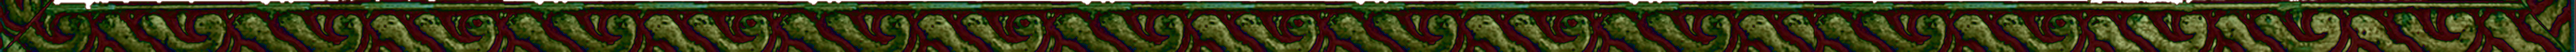
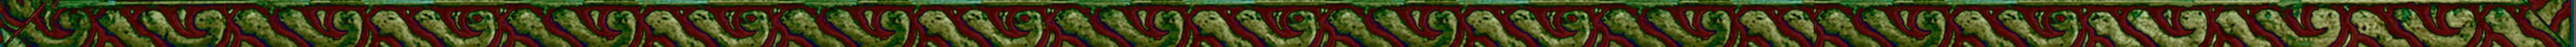
adjusting visuals

diff --git a/assets/style/style.css b/assets/style/style.css
@@ -161,3 +161,20 @@ section {
         font-size: 1.5rem;
     }
 }
+
+.border-top{
+    height: 2vh;
+    width: 100%;
+    background-image: url(../img/border-top.jpg);
+    background-position: center;
+    background-size: cover;
+    margin-block-end: -2px;
+}
+
+.border-bottom{
+    height: 2vh;
+    width: 100%;
+    background-image: url(../img/border-bottom.jpg);
+    background-position: center;
+    background-size: cover;
+}

diff --git a/assets/style/profil.css b/assets/style/profil.css
@@ -3,7 +3,7 @@
 
 .section1 {
     width: 100vw;
-    background: url(../media/kisspng-kraken-rum-sea-monster-octopus-kraken-rum-logo-5b50ac195986b8.png) var(--bg-color-section1);
+    background: url(../img/fond-vert.jpg);
     background-repeat: no-repeat;
     background-size: cover;
     background-position: center;

diff --git a/public/index.php b/public/index.php
@@ -62,12 +62,27 @@
     <main>
 
         <div class="border-top"></div>
+            <section class="section section1" id="profil">
+                <?php require 'profil.php'; ?>
+            </section>
+        <div class="border-bottom"></div>
 
-        <section class="section section1" id="profil">
-            <?php require 'profil.php'; ?>
-        </section>
+
+
+        <div class="ba_pirates">
+            <video id="background-video" src="/assets/video/video_bg_jack.mp4" autoplay loop muted>
+            </video>
+        </div>
+
+
 
         <div class="border-top"></div>
+            <section class="section section2" id="competences">
+                <div class="skill">
+                    <?php require 'skill_Data.php'; ?>
+                </div>
+            </section>
+        <div class="border-bottom"></div>
 
 
 
@@ -78,44 +93,30 @@
 
 
 
-
-        <section class="section section2" id="competences">
-            <div class="skill">
-                <?php require 'skill_Data.php'; ?>
-            </div>
-        </section>
-
-
-
-
-        <div class="ba_pirates">
-            <video id="background-video" src="/assets/video/video_bg_jack.mp4" autoplay loop muted>
-            </video>
-        </div>
-
-
-
-
-        <section class="section section3" id="experience-pro">
-            <?php require 'experience_pro.php' ?>
-        </section>
-
+        <div class="border-top"></div>
+            <section class="section section3" id="experience-pro">
+                <?php require 'experience_pro.php' ?>
+            </section>
+        <div class="border-bottom"></div>
 
 
         <div class="ba_pirates"></div>
         <video id="background-video" src="../assets/video/video_bg_jack.mp4" autoplay loop muted>
         </video>
 
-        <section class="section section4">
-            <div class="planche-title">
-                <h1>Loisirs</h1>
-            </div>
-            <h1 id="loisirs">Loisirs</h1>
-            <div class="loisirs">
-                <?php require 'loisirs.php' ?>
-            </div>
-        </section>
+        <div class="border-top"></div>
+            <section class="section section4">
+                <div class="planche-title">
+                    <h1>Loisirs</h1>
+                </div>
+                <h1 id="loisirs">Loisirs</h1>
+                <div class="loisirs">
+                    <?php require 'loisirs.php' ?>
+                </div>
+            </section>
+        <div class="border-bottom"></div>
 
+        
         <div class="lastImg"></div>
     </main>
 
